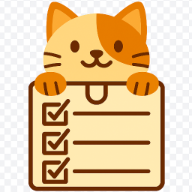
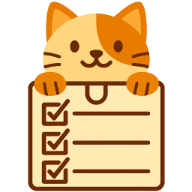
Commit Image index.css

diff --git a/index.css b/index.css
@@ -93,11 +93,12 @@ main{
 
 
 .logo{
-  width:24%;
+  width:19%;
 }
 
 .img-btn{
   width:100%;
+ 
 }
 
 .list-container{
